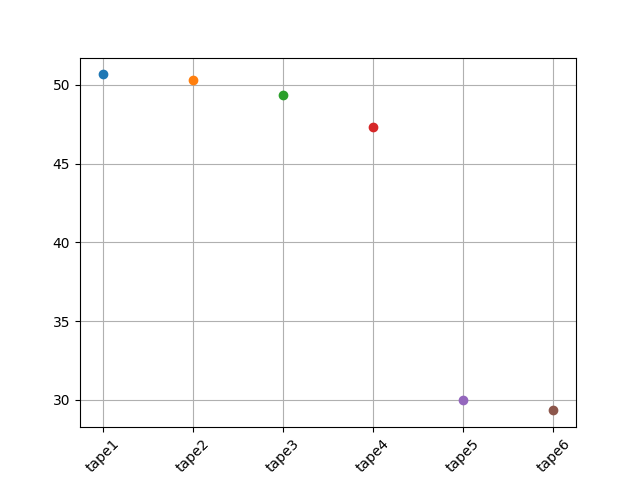
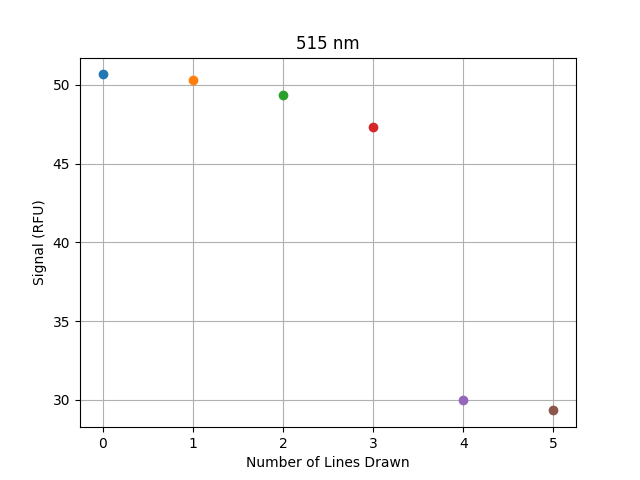
S

diff --git a/analysis/fluorimeter/FluoroData.py b/analysis/fluorimeter/FluoroData.py
@@ -2,7 +2,7 @@ import matplotlib.pyplot as plt
 import numpy as np
 import pandas as pd
 import os
-from confidenceFun import CI,tukey
+from confidenceFun import CI,tukey,tolArea
 from pcr_fit import findLeastSquaresCq
 
 
@@ -114,6 +114,27 @@ def makeCompound(chan,sortBy,compWhat):
             smallDF[val] = [df[compWhat][indx]]
         else:
             smallDF[val].append(df[compWhat][indx])
-    print(smallDF)
+    return list(smallDF.values())
 
-makeCompound(515,'instrument','fmax')
+def taPlot(compoundPop,alpha,p,col,name):                #compoundPop should be of format[[pop1],[pop2],...]
+    dat = tolArea(compoundPop,alpha,p)
+    mid = dat[1]
+    points = dat[0]
+    tis = dat[2]
+    tiL,tiR = tis[0]
+    tiB,tiT = tis[1]
+
+    # print(mid[0])
+    print(points[0])
+    plt.plot(points[0],points[1],'o',color=col,label=name)
+    plt.hlines(mid[1],tiL,tiR,lw=5,colors=col)
+    plt.vlines(mid[0],tiB,tiT,lw=5,colors=col)
+    plt.plot(mid[0],mid[1],'o',color='r')
+    plt.xlabel('Mean Melt Range (RFU)')
+    plt.ylabel('Standard Deviation (RFU)')
+    plt.title('90% Tolerance Area (p=90)')
+    plt.grid()
+    plt.show()
+
+
+taPlot(makeCompound(515,'instrument','melt range'),0.1,0.9,'blue','test')

diff --git a/analysis/fluorimeter/offsets/daveSignalParse.py b/analysis/fluorimeter/offsets/daveSignalParse.py
@@ -2,8 +2,9 @@ import numpy as np
 import matplotlib.pyplot as plt
 import os
 
-folder = 'daveData/rightToLeft'
+folder = 'daveData/heelToToe'
 channelUsed = '515'
+
 def parse(file):
     chan = {
         '415':[],'445':[],'480':[],'515':[],
@@ -20,10 +21,14 @@ def parse(file):
                     chan[u].append(x)
 
     return chan
-
+count = 0
 for i in os.listdir(folder):
     x = parse('/'.join([folder,i]))[channelUsed]
-    plt.plot(i[:-4],np.mean(x),'o')
-    plt.xticks(rotation=45)
+    plt.plot(count,np.mean(x),'o')
+    # plt.xticks(rotation=45)
+    count += 1
 plt.grid()
+plt.ylabel('Signal (RFU)')
+plt.xlabel('Number of Lines Drawn')
+plt.title('515 nm')
 plt.savefig(''.join([folder,'_',channelUsed,'.png']))

diff --git a/analysis/fluorimeter/confidenceFun.py b/analysis/fluorimeter/confidenceFun.py
@@ -45,3 +45,20 @@ def tolArea(complexPop,alpha,p):
     meanMeans = np.mean(means)
     meanStdevs = np.mean(stdevs)
     return (means,stdevs),(meanMeans,meanStdevs),(meanTI,stdTI)
+
+
+def confArea(complesPop,alpha):
+    means = []
+    stdevs = []
+    for i in complesPop:
+        means.append(np.mean(i))
+        stdevs.append(np.std(i))
+    meanCI = CI(means,alpha)
+    stdCI = CI(stdevs,alpha)
+    if stdCI[0] < 0:
+        stdCI[0] = 0
+    if meanCI[0] < 0:
+        meanCI[0] = 0
+    meanMeans = np.mean(means)
+    meanStdevs = np.mean(stdevs)
+    return (means,stdevs),(meanMeans,meanStdevs),(meanCI,stdCI)

diff --git a/analysis/fluorimeter/test.py b/analysis/fluorimeter/test.py
@@ -16,3 +16,9 @@ def taPlot(compoundPop,alpha,p,col,name):                #compoundPop should be 
     plt.vlines(mid[0],tiB,tiT,lw=5,colors=col)
     plt.plot(mid[0],mid[1],'o',color='r')
     # plt.show()
+
+
+
+josh = {'a':[1],'b':[3,4]}
+tess = list(josh.values())
+print(tess)
